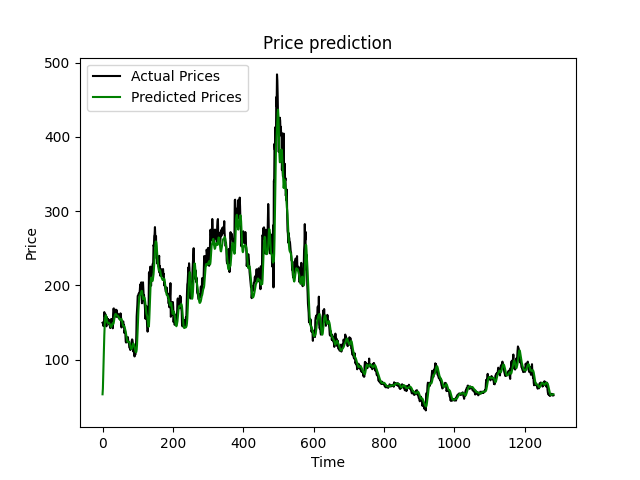
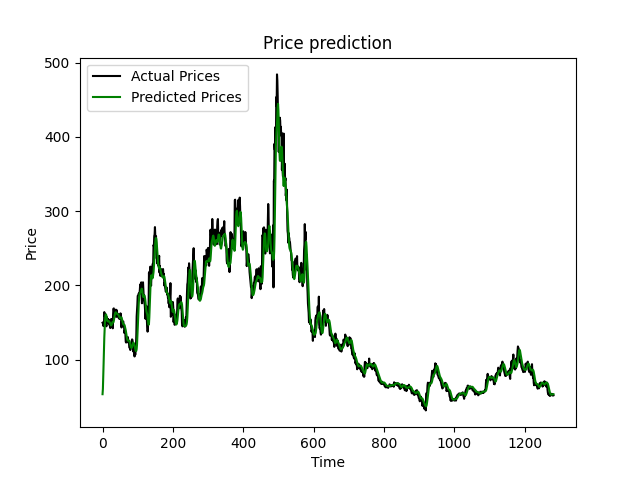
[Tests] Added system to store multiple tests by index

diff --git a/main.py b/main.py
@@ -1,82 +1,14 @@
-import pandas as pd
-import numpy as np
-import matplotlib.pyplot as plt
+import os
 
-from sklearn.preprocessing import MinMaxScaler
-from tensorflow.keras.layers import Dense, Dropout, LSTM
-from tensorflow.keras.models import Sequential
+tests = os.listdir('Tests')
 
-# Load data
+for i in range(len(tests)):
+    print(str(i) + '. ' + tests[i])
 
-raw_xmr_bust = pd.read_csv('training_data/Binance_XMRUSDT_d.csv')
+test_index = int(input("Index: "))
 
-# Scale data
+if test_index < 0 or test_index >= len(tests):
+    print('The tests does not exist')
+    exit()
 
-scaler = MinMaxScaler(feature_range=(0, 1))
-scaled_close = scaler.fit_transform(raw_xmr_bust['close'].values.reshape(-1, 1))
-
-# Create train data
-
-prediction_registers = 15
-
-x_train, y_train = [], []
-
-for x in range(prediction_registers, len(scaled_close)):
-    x_train.append(scaled_close[x-prediction_registers:x, 0])
-    y_train.append(scaled_close[x, 0])
-
-x_train = np.array(x_train)
-y_train = np.array(y_train)
-
-x_train = np.reshape(x_train, (x_train.shape[0], x_train.shape[1], 1))
-
-# Create the model
-
-model = Sequential()
-
-model.add(LSTM(units=50, return_sequences=True, input_shape=(x_train.shape[1], 1)))
-model.add(Dropout(0.2))
-model.add(LSTM(units=50, return_sequences=True))
-model.add(Dropout(0.2))
-model.add(LSTM(units=50))
-model.add(Dropout(0.2))
-model.add(Dense(units=1))
-
-model.compile(optimizer='adam', loss='mean_squared_error')
-model.fit(x_train, y_train, epochs=25, batch_size=32)
-
-
-# Save model
-
-model.save_weights('weights')
-
-
-# Testing the model
-
-actual_data = raw_xmr_bust['close'].values
-
-total_dataset = pd.concat((raw_xmr_bust['close'], raw_xmr_bust['close']), axis=0)
-
-model_inputs = total_dataset[len(total_dataset) - len(raw_xmr_bust) - prediction_registers:].values
-model_inputs = model_inputs.reshape(-1, 1)
-model_inputs = scaler.fit_transform(model_inputs)
-
-
-x_test = []
-
-for x in range(prediction_registers, len(model_inputs)):
-    x_test.append(model_inputs[x-prediction_registers:x, 0])
-
-x_test = np.array(x_test)
-x_test = np.reshape(x_test, (x_test.shape[0], x_test.shape[1], 1))
-
-prediction_prices = model.predict(x_test)
-prediction_prices = scaler.inverse_transform(prediction_prices)
-
-plt.plot(actual_data, color='black', label='Actual Prices')
-plt.plot(prediction_prices, color='green', label='Predicted Prices')
-plt.title('Price prediction')
-plt.xlabel('Time')
-plt.ylabel('Price')
-plt.legend(loc='upper left')
-plt.savefig("prediction.png")
+exec(open("Tests/" + tests[test_index]).read())

diff --git a/Tests/LSTM_NN_Test.py b/Tests/LSTM_NN_Test.py
@@ -1,0 +1,82 @@
+import pandas as pd
+import numpy as np
+import matplotlib.pyplot as plt
+
+from sklearn.preprocessing import MinMaxScaler
+from tensorflow.keras.layers import Dense, Dropout, LSTM
+from tensorflow.keras.models import Sequential
+
+# Load data
+
+raw_xmr_bust = pd.read_csv('training_data/Binance_XMRUSDT_d.csv')
+
+# Scale data
+
+scaler = MinMaxScaler(feature_range=(0, 1))
+scaled_close = scaler.fit_transform(raw_xmr_bust['close'].values.reshape(-1, 1))
+
+# Create train data
+
+prediction_registers = 15
+
+x_train, y_train = [], []
+
+for x in range(prediction_registers, len(scaled_close)):
+    x_train.append(scaled_close[x-prediction_registers:x, 0])
+    y_train.append(scaled_close[x, 0])
+
+x_train = np.array(x_train)
+y_train = np.array(y_train)
+
+x_train = np.reshape(x_train, (x_train.shape[0], x_train.shape[1], 1))
+
+# Create the model
+
+model = Sequential()
+
+model.add(LSTM(units=50, return_sequences=True, input_shape=(x_train.shape[1], 1)))
+model.add(Dropout(0.2))
+model.add(LSTM(units=50, return_sequences=True))
+model.add(Dropout(0.2))
+model.add(LSTM(units=50))
+model.add(Dropout(0.2))
+model.add(Dense(units=1))
+
+model.compile(optimizer='adam', loss='mean_squared_error')
+model.fit(x_train, y_train, epochs=25, batch_size=32)
+
+
+# Save model
+
+model.save_weights('weights')
+
+
+# Testing the model
+
+actual_data = raw_xmr_bust['close'].values
+
+total_dataset = pd.concat((raw_xmr_bust['close'], raw_xmr_bust['close']), axis=0)
+
+model_inputs = total_dataset[len(total_dataset) - len(raw_xmr_bust) - prediction_registers:].values
+model_inputs = model_inputs.reshape(-1, 1)
+model_inputs = scaler.fit_transform(model_inputs)
+
+
+x_test = []
+
+for x in range(prediction_registers, len(model_inputs)):
+    x_test.append(model_inputs[x-prediction_registers:x, 0])
+
+x_test = np.array(x_test)
+x_test = np.reshape(x_test, (x_test.shape[0], x_test.shape[1], 1))
+
+prediction_prices = model.predict(x_test)
+prediction_prices = scaler.inverse_transform(prediction_prices)
+
+plt.plot(actual_data, color='black', label='Actual Prices')
+plt.plot(prediction_prices, color='green', label='Predicted Prices')
+plt.title('Price prediction')
+plt.xlabel('Time')
+plt.ylabel('Price')
+plt.legend(loc='upper left')
+plt.savefig("prediction.png")
